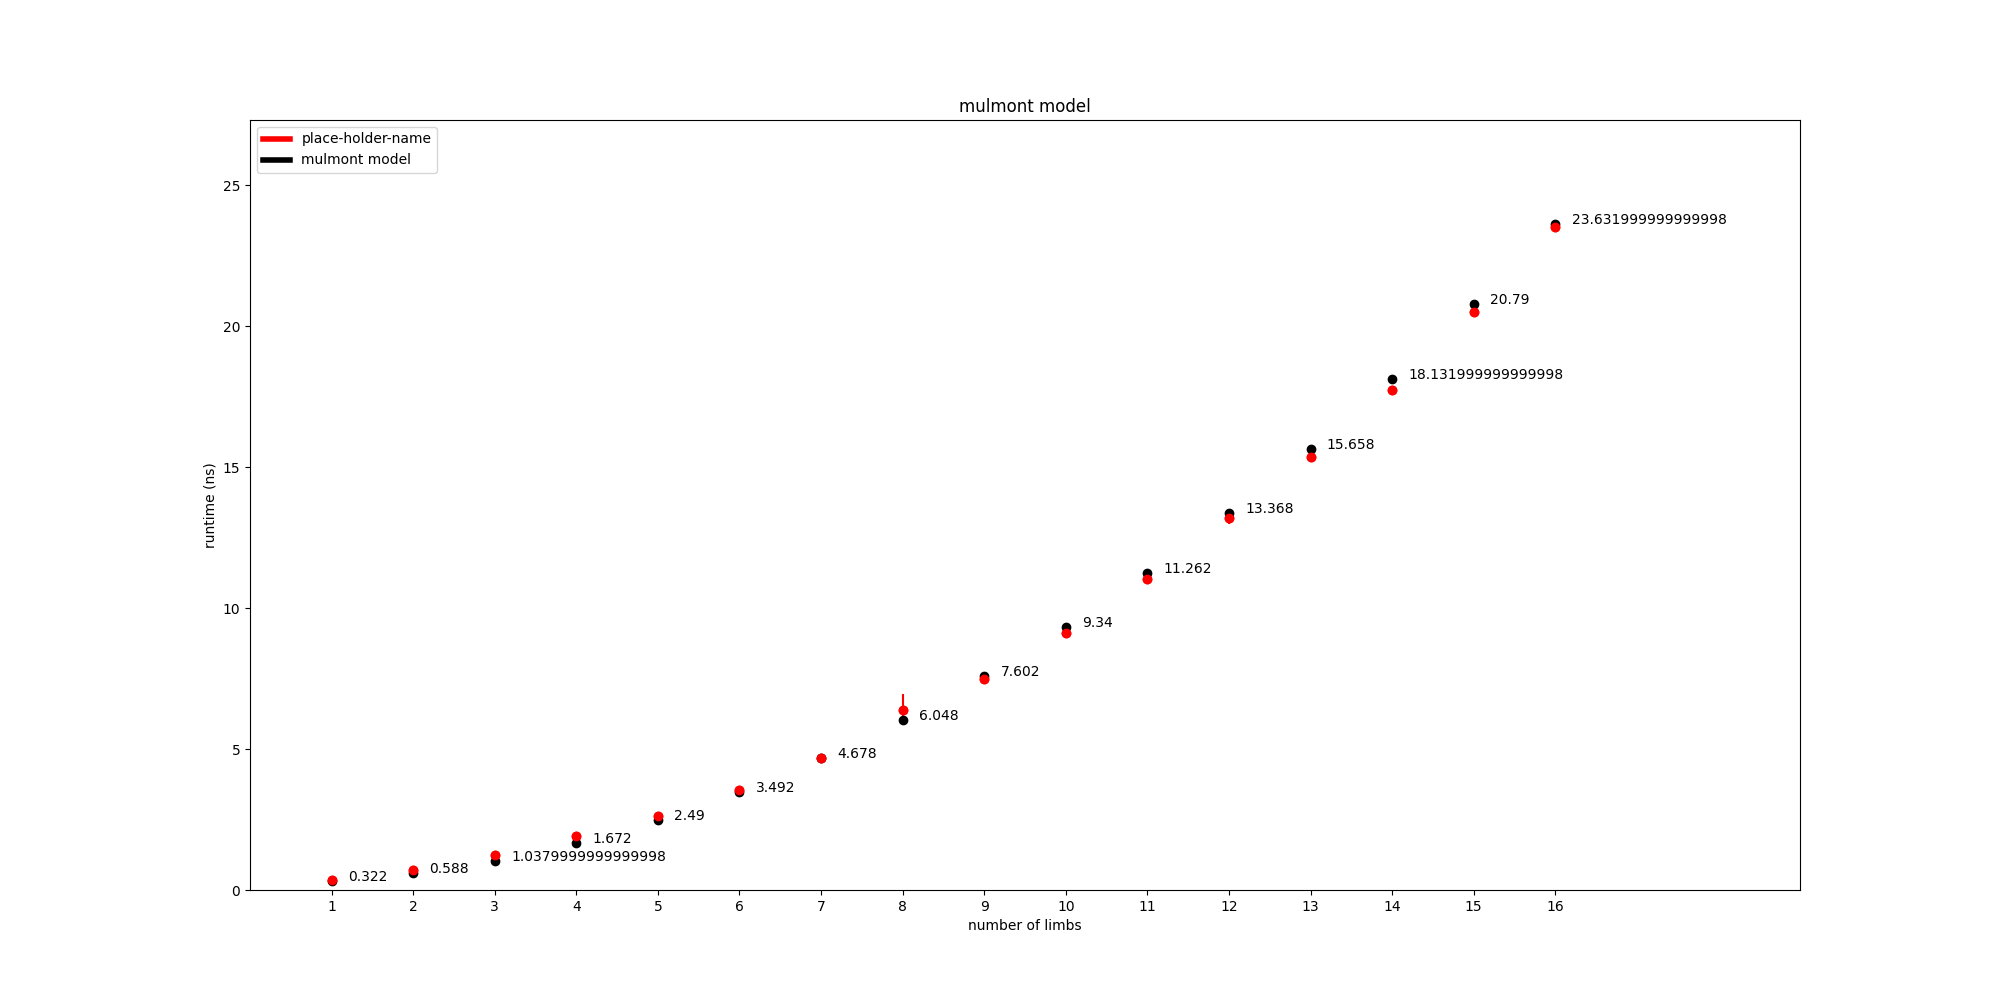
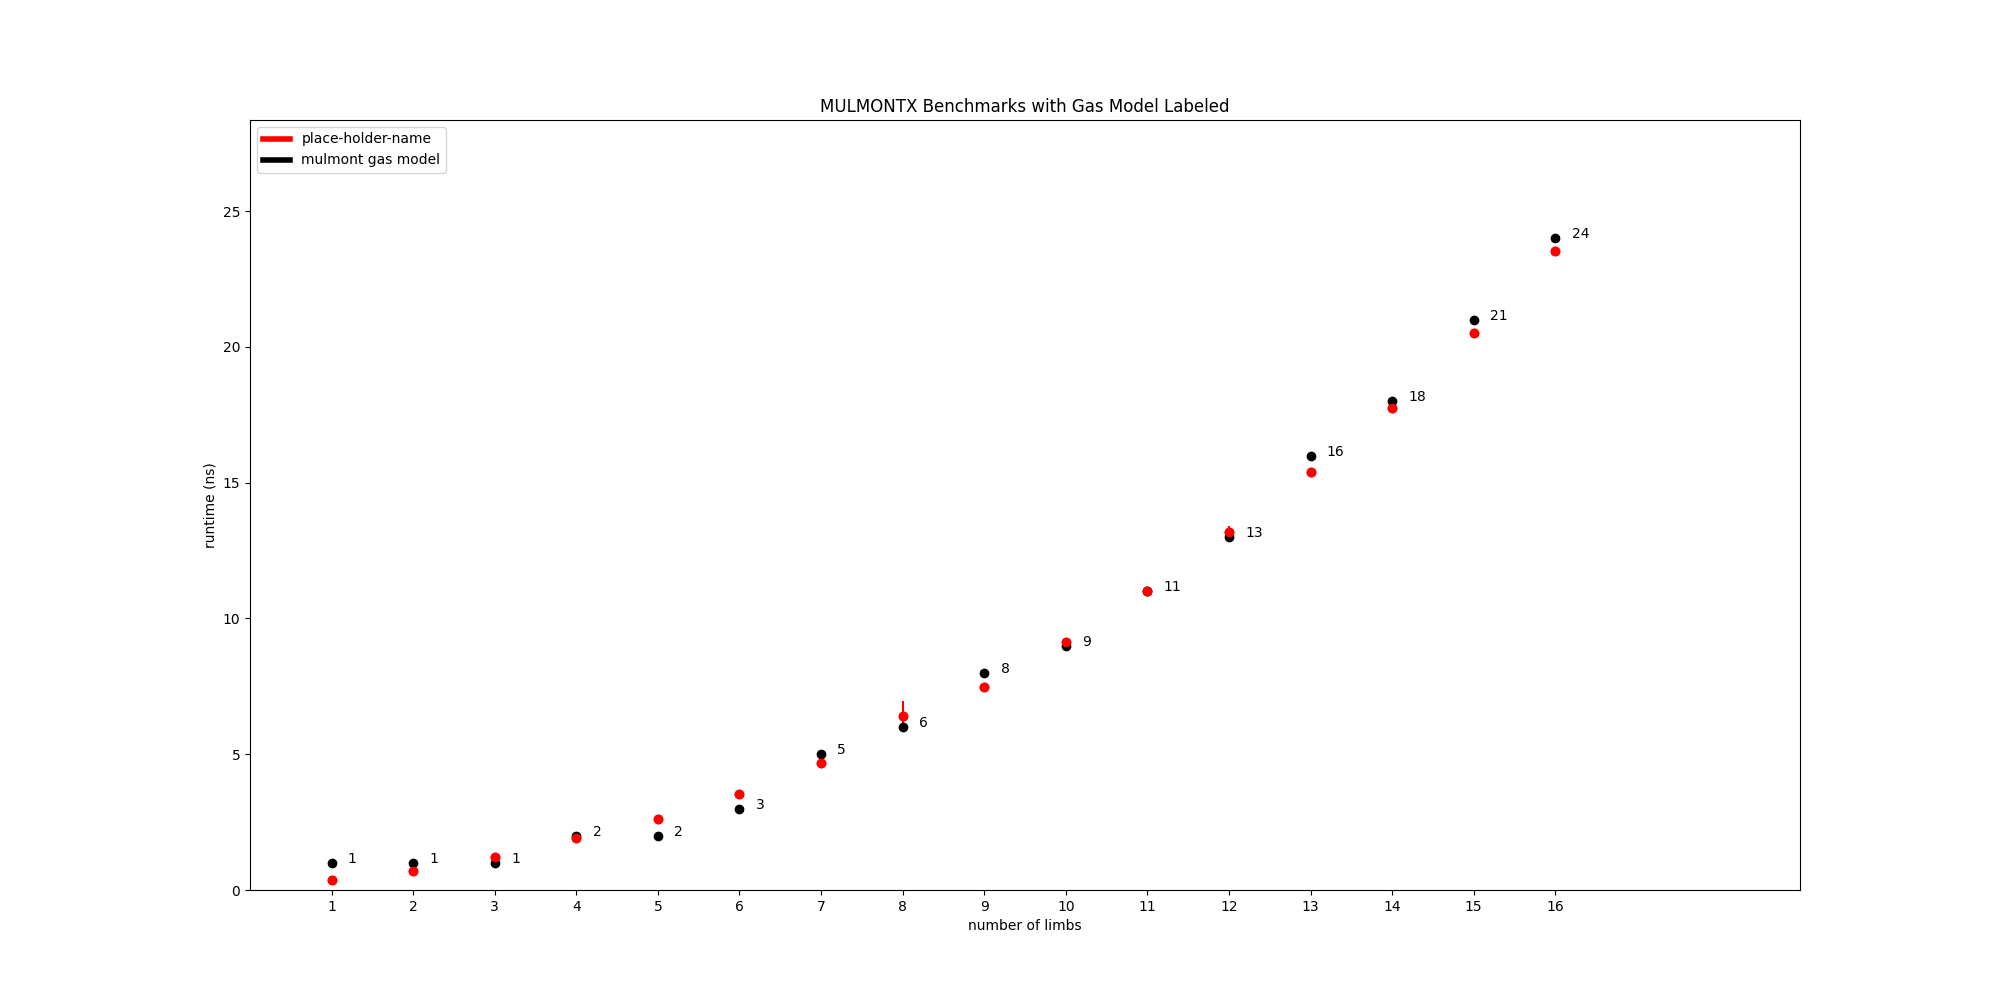
fin

diff --git a/plot.py b/plot.py
@@ -157,7 +157,7 @@ def scatterplot_ns_data(fname: str, name: str, graph_range, annotates: [bool], m
         legend_labels.append(label)
 
     ax.legend(legend_lines, legend_labels, loc="upper left")
-    ax.set(title=label)
+    ax.set(title=name)
     plt.savefig(fname)
 
 def fit_quadratic(input_range, dataset, intercept_min):
@@ -256,7 +256,9 @@ def prep_models_for_graphing(models, name, xs):
 
     for model, range_max in models:
         while x_idx < len(xs) and xs[x_idx] <= range_max:
-            y = eval_model(model, xs[x_idx])
+            y = round(eval_model(model, xs[x_idx]))
+            if y == 0:
+                y = 1
             ys.append(y)
             x_idx += 1
     
@@ -357,12 +359,12 @@ mulmont_evmmax_hi = go_arith_benchmarks['mulmont']['generic']
 
 #mulmont_model = stitch_model(mulmont_cost_low, mulmont_cost_hi, fast_mulmont_cutoff)
 benches_xs = list(sorted(set(list(mulmont_evmmax_low.keys()) + list(mulmont_evmmax_hi.keys()))))
-mulmont_model = prep_models_for_graphing([(mulmont_eqn_low, fast_mulmont_cutoff), (mulmont_eqn_hi, 100000)], 'mulmont model', benches_xs)
+mulmont_model = prep_models_for_graphing([(mulmont_eqn_low, fast_mulmont_cutoff), (mulmont_eqn_hi, 100000)], 'mulmont gas model', benches_xs)
 
 mulmont_evmmax = stitch_data(go_arith_benchmarks['mulmont']['non-unrolled'], go_arith_benchmarks['mulmont']['generic'], fast_mulmont_cutoff)
-scatterplot_ns_data("charts/mulmontmax_all.png", "mulmontmax arithmetic benchmarks with gas model", (1, 100000), [False, False], ["o", "-"], [mulmont_evmmax, mulmont_model])
-scatterplot_ns_data("charts/mulmontmax_cutoff.png", "MULMONTMAX Arithmetic Benchmarks with Gas Model", (1, 64), [False, False], ["o", "o"], [mulmont_evmmax, mulmont_model])
-scatterplot_ns_data("charts/mulmontmax_low.png", "mulmontmax arithmetic benchmarks with gas model", (1, 16), [False, True], ["o", "o"], [mulmont_evmmax, mulmont_model])
+scatterplot_ns_data("charts/mulmontmax_all.png", "MULMONTX Benchmarks", (1, 100000), [False, False], ["o", "-"], [mulmont_evmmax, mulmont_model])
+scatterplot_ns_data("charts/mulmontmax_cutoff.png", "MULMONTX Benchmarks", (1, 64), [False, False], ["o", "o"], [mulmont_evmmax, mulmont_model])
+scatterplot_ns_data("charts/mulmontmax_low.png", "MULMONTX Benchmarks with Gas Model Labeled", (1, 16), [False, True], ["o", "o"], [mulmont_evmmax, mulmont_model])
 
 addmod_model = prep_models_for_graphing([(addmod_eqn, 100000)], 'addmod model', benches_xs)
 
@@ -371,22 +373,17 @@ addmod_model = prep_models_for_graphing([(addmod_eqn, 100000)], 'addmod model', 
 addmod_evmmax = stitch_data(go_arith_benchmarks['addmod']['generic'], go_arith_benchmarks['addmod']['generic'], 100000)
 submod_evmmax = stitch_data(go_arith_benchmarks['submod']['generic'], go_arith_benchmarks['submod']['generic'], 100000)
 
-# mulmont_eqn_low = 
-# TODO addmod/submod with model on graph
+scatterplot_ns_data("charts/addmodx_low.png", "ADDMODX Benchmarks with Gas Model Labelled", (1, 12), [False, True], ["o", 'o'], [addmod_evmmax, addmod_model])
+scatterplot_ns_data("charts/addmodx_med.png", "ADDMODX Benchmarks", (1, 64), [False, False], ["o", 'o'], [addmod_evmmax, addmod_model])
+scatterplot_ns_data("charts/addmodx_all.png", "ADDMODX Benchmarks", (1, 100000), [False, False], ["o", '-'], [addmod_evmmax, addmod_model])
 
-scatterplot_ns_data("charts/addmodx_low.png", "addmodx low limbs", (1, 12), [True, False], ["o", 'o'], [addmod_evmmax, addmod_model])
-scatterplot_ns_data("charts/addmodx_med.png", "addmodx medium limbs", (1, 100), [False, False], ["o", '-'], [addmod_evmmax, addmod_model])
-scatterplot_ns_data("charts/addmodx_all.png", "addmodx all limbs", (1, 100000), [False, False], ["o", '-'], [addmod_evmmax, addmod_model])
-
-scatterplot_ns_data("charts/submodx_low.png", "submodx low limbs", (1, 12), [False, False], ["o", 'o'], [submod_evmmax, addmod_model])
-scatterplot_ns_data("charts/submodx_med.png", "submodx medium limbs", (1, 100), [False, False], ["o", '-'], [submod_evmmax, addmod_model])
-scatterplot_ns_data("charts/submodx_all.png", "submodx all limbs", (1, 100000), [False, False], ["o", '-'], [submod_evmmax, addmod_model])
+scatterplot_ns_data("charts/submodx_low.png", "SUBMODX Benchmarks with Gas Model Labelled", (1, 12), [False, True], ["o", 'o'], [submod_evmmax, addmod_model])
+scatterplot_ns_data("charts/submodx_med.png", "SUBMODX Benchmarks", (1, 64), [False, False], ["o", 'o'], [submod_evmmax, addmod_model])
+scatterplot_ns_data("charts/submodx_all.png", "SUBMODX Benchmarks", (1, 100000), [False, False], ["o", '-'], [submod_evmmax, addmod_model])
 
 setmod_evmmax = stitch_data(go_arith_benchmarks['setmod']['generic'], go_arith_benchmarks['setmod']['generic'], 100000)
-#setmod_eqn = fit_linear((1, 100000), go_arith_benchmarks['setmod']['generic'], True)
 setmod_model = prep_models_for_graphing([(setmod_eqn, 100000)], 'setmod model', benches_xs)
 
-import pdb; pdb.set_trace()
-scatterplot_ns_data("charts/setmodmax_all.png", "SETMODMAX model", (1, 100000), [False, False], ["-", "o"], [setmod_model, setmod_evmmax])
-scatterplot_ns_data("charts/setmodmax_cutoff.png", "SETMODMAX model", (1, 64), [False, False], ["-", "o"], [setmod_model, setmod_evmmax])
-scatterplot_ns_data("charts/setmodmax_low.png", "SETMODMAX model", (1, 16), [True, False], ["o", "o"], [setmod_model, setmod_evmmax])
+scatterplot_ns_data("charts/setmodmax_all.png", "SETMODMAX Benchmarks", (1, 100000), [False, False], ["-", "o"], [setmod_model, setmod_evmmax])
+scatterplot_ns_data("charts/setmodmax_cutoff.png", "SETMODMAX Benchmarks", (1, 64), [False, False], ["-", "o"], [setmod_model, setmod_evmmax])
+scatterplot_ns_data("charts/setmodmax_low.png", "SETMODX Benchmarks with Gas Model Labeled", (1, 16), [True, False], ["o", "o"], [setmod_model, setmod_evmmax])
